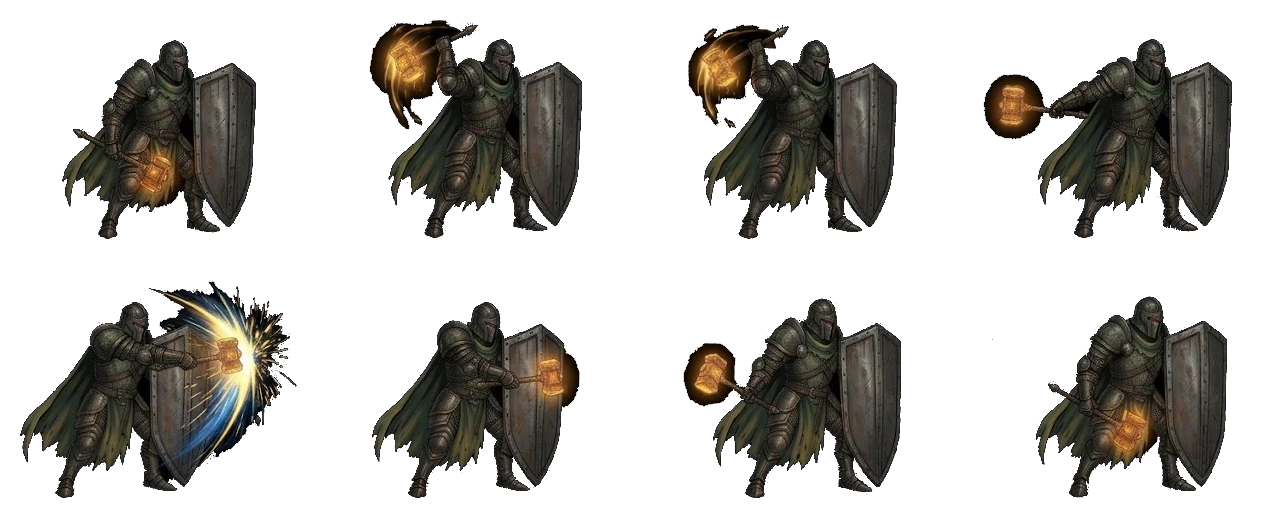
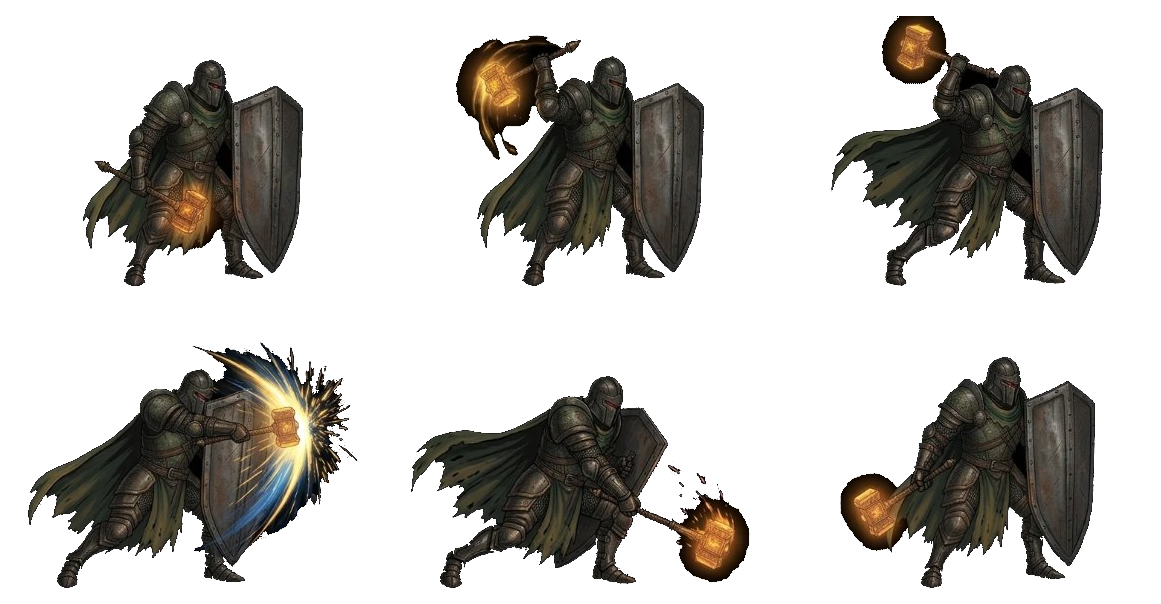
Fix stuck Draggable overlay leak and replace Grave Duelist, Ashfire Skirmisher, and Pyre Sentry Arbalest with painterly sprites

diff --git a/lib/features/combat_spatial/spatial_battle_screen.dart b/lib/features/combat_spatial/spatial_battle_screen.dart
@@ -362,8 +362,10 @@ class _SpatialBattleScreenState extends State<SpatialBattleScreen> with TickerPr
     SpriteSheetAnimation.precache('assets/images/Spells/meteor storm.png');
     SpriteSheetAnimation.precache('assets/images/Ash sculpter/ironclad warden idle.png');
     SpriteSheetAnimation.precache('assets/images/Ash sculpter/ironclad warden attack.png');
+    SpriteSheetAnimation.precache('assets/images/Ash sculpter/ironclad warden skill.png');
     SpriteSheetAnimation.precache('assets/images/Ash sculpter/blood alchemist idle.png');
     SpriteSheetAnimation.precache('assets/images/Ash sculpter/blood alchemist attack animation.png');
+    SpriteSheetAnimation.precache('assets/images/Ash sculpter/blood alchemist skill cast.png');
     final players = widget.initialPlayerUnits?.whereType<UnitEntity>().toList();
     final enemies = widget.initialEnemyUnits?.whereType<UnitEntity>().toList();
 
@@ -6895,11 +6897,16 @@ class _SpatialBattleScreenState extends State<SpatialBattleScreen> with TickerPr
                                       maxHeight: modelHeight,
                                       alignment: Alignment.bottomCenter,
                                       child: SpriteSheetAnimation(
-                                        assetPath: 'assets/images/Ash sculpter/ironclad warden attack.png',
-                                        columns: 4,
+                                        assetPath: (_attackingSkillName != null &&
+                                                _attackingSkillName!.isNotEmpty &&
+                                                _attackingSkillName != 'Basic Attack' &&
+                                                _attackingSkillName != 'Attack')
+                                            ? 'assets/images/Ash sculpter/ironclad warden skill.png'
+                                            : 'assets/images/Ash sculpter/ironclad warden attack.png',
+                                        columns: 3,
                                         rows: 2,
-                                        totalFrames: 8,
-                                        duration: Duration(milliseconds: _scaledMs(950)),
+                                        totalFrames: 6,
+                                        duration: Duration(milliseconds: _scaledMs(750)),
                                         loop: false,
                                         fit: BoxFit.contain,
                                         fallback: Image.asset(unit.assetPath, fit: BoxFit.contain, alignment: Alignment.bottomCenter),
@@ -6911,7 +6918,12 @@ class _SpatialBattleScreenState extends State<SpatialBattleScreen> with TickerPr
                                           maxHeight: modelHeight,
                                           alignment: Alignment.bottomCenter,
                                           child: SpriteSheetAnimation(
-                                            assetPath: 'assets/images/Ash sculpter/blood alchemist attack animation.png',
+                                            assetPath: (_attackingSkillName != null &&
+                                                    _attackingSkillName!.isNotEmpty &&
+                                                    _attackingSkillName != 'Basic Attack' &&
+                                                    _attackingSkillName != 'Attack')
+                                                ? 'assets/images/Ash sculpter/blood alchemist skill cast.png'
+                                                : 'assets/images/Ash sculpter/blood alchemist attack animation.png',
                                             columns: 4,
                                             rows: 3,
                                             totalFrames: 12,
@@ -8381,6 +8393,8 @@ class _SpatialBattleScreenState extends State<SpatialBattleScreen> with TickerPr
 
     return Draggable<String>(
       data: 'unit:${unit.id}',
+      maxSimultaneousDrags: 1,
+      rootOverlay: false,
       onDragStarted: () {
         setState(() {
           _draggedUnitId = unit.id;
@@ -8389,20 +8403,31 @@ class _SpatialBattleScreenState extends State<SpatialBattleScreen> with TickerPr
         });
       },
       onDragEnd: (_) {
+        if (!mounted) return;
         setState(() {
           _draggedUnitId = null;
           _hoveredTileGRow = null;
           _hoveredTileCol = null;
         });
       },
-      feedback: Material(
-        color: Colors.transparent,
-        child: _buildUnitMiniatureWidget(
-          unit,
-          tileWidth: 88,
-          tileHeight: 64,
-          colGap: 0,
-          isDragging: true,
+      onDraggableCanceled: (_, __) {
+        if (!mounted) return;
+        setState(() {
+          _draggedUnitId = null;
+          _hoveredTileGRow = null;
+          _hoveredTileCol = null;
+        });
+      },
+      feedback: IgnorePointer(
+        child: Material(
+          color: Colors.transparent,
+          child: _buildUnitMiniatureWidget(
+            unit,
+            tileWidth: 88,
+            tileHeight: 64,
+            colGap: 0,
+            isDragging: true,
+          ),
         ),
       ),
       childWhenDragging: Opacity(

diff --git a/lib/features/combat_spatial/rank_and_rite_2d_battlefield.dart b/lib/features/combat_spatial/rank_and_rite_2d_battlefield.dart
@@ -945,22 +945,26 @@ class RankAndRite2DBattlefield extends StatelessWidget {
                       if (isPlayer && occupant.isAlive && !occupant.isDisplacementImmune) {
                         return Draggable<String>(
                           data: 'unit:${occupant.id}',
+                          maxSimultaneousDrags: 1,
+                          rootOverlay: false,
                           onDragStarted: () => onDragStartUnit?.call(occupant.id),
                           onDragEnd: (_) => onDragEndUnit?.call(),
                           onDraggableCanceled: (_, __) => onDragEndUnit?.call(),
-                          feedback: Material(
-                            color: Colors.transparent,
-                            child: Opacity(
-                              opacity: 0.85,
-                              child: SizedBox(
-                                width: tileWidth,
-                                height: tileHeight,
-                                child: buildUnitMiniature(
-                                  occupant,
-                                  tileWidth: tileWidth,
-                                  tileHeight: tileHeight,
-                                  colGap: 0,
-                                  isSelected: true,
+                          feedback: IgnorePointer(
+                            child: Material(
+                              color: Colors.transparent,
+                              child: Opacity(
+                                opacity: 0.85,
+                                child: SizedBox(
+                                  width: tileWidth,
+                                  height: tileHeight,
+                                  child: buildUnitMiniature(
+                                    occupant,
+                                    tileWidth: tileWidth,
+                                    tileHeight: tileHeight,
+                                    colGap: 0,
+                                    isSelected: true,
+                                  ),
                                 ),
                               ),
                             ),

diff --git a/lib/shared/data/starter_brigades.dart b/lib/shared/data/starter_brigades.dart
@@ -1276,7 +1276,7 @@ class StarterBrigades {
               speed: 105,
               nativeTraitId: 'piercing_arrow',
               lineageAncestors: [],
-              customAvatarAsset: 'assets/images/marksman_base.png',
+              customAvatarAsset: 'assets/images/pyre_sentry_arbalest.png',
             ),
             const UnitEntity(
               id: 's4_flayer_01',
@@ -1294,7 +1294,7 @@ class StarterBrigades {
               speed: 120,
               nativeTraitId: 'vicious_strike',
               lineageAncestors: [],
-              customAvatarAsset: 'assets/images/sanguine_flayer_g3.png',
+              customAvatarAsset: 'assets/images/ashfire_skirmisher.png',
             ),
           ];
 
